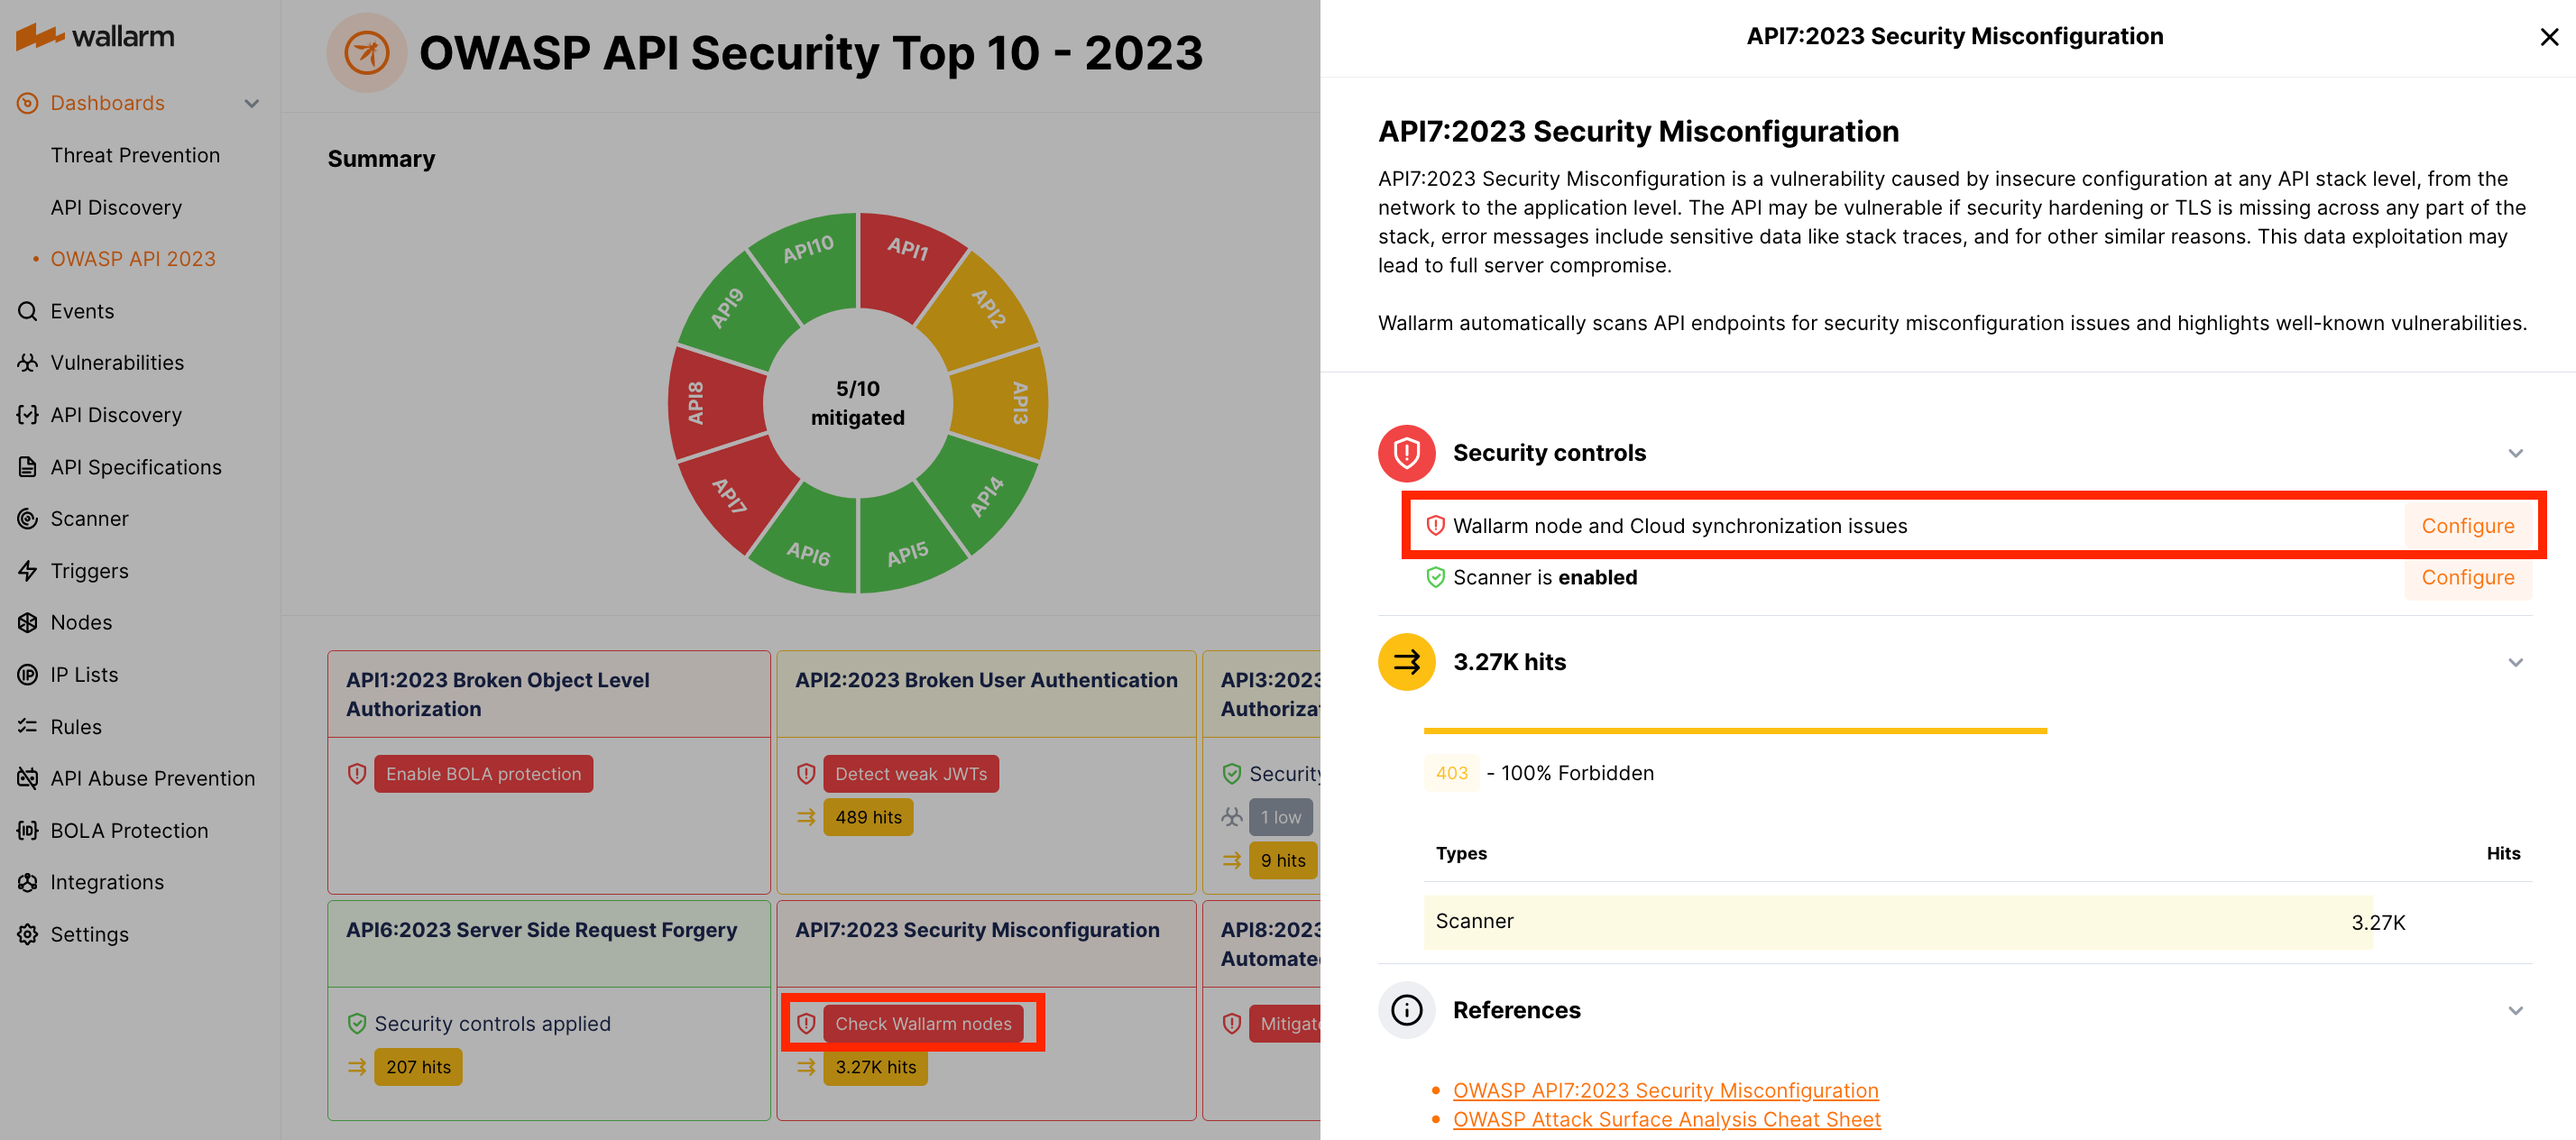
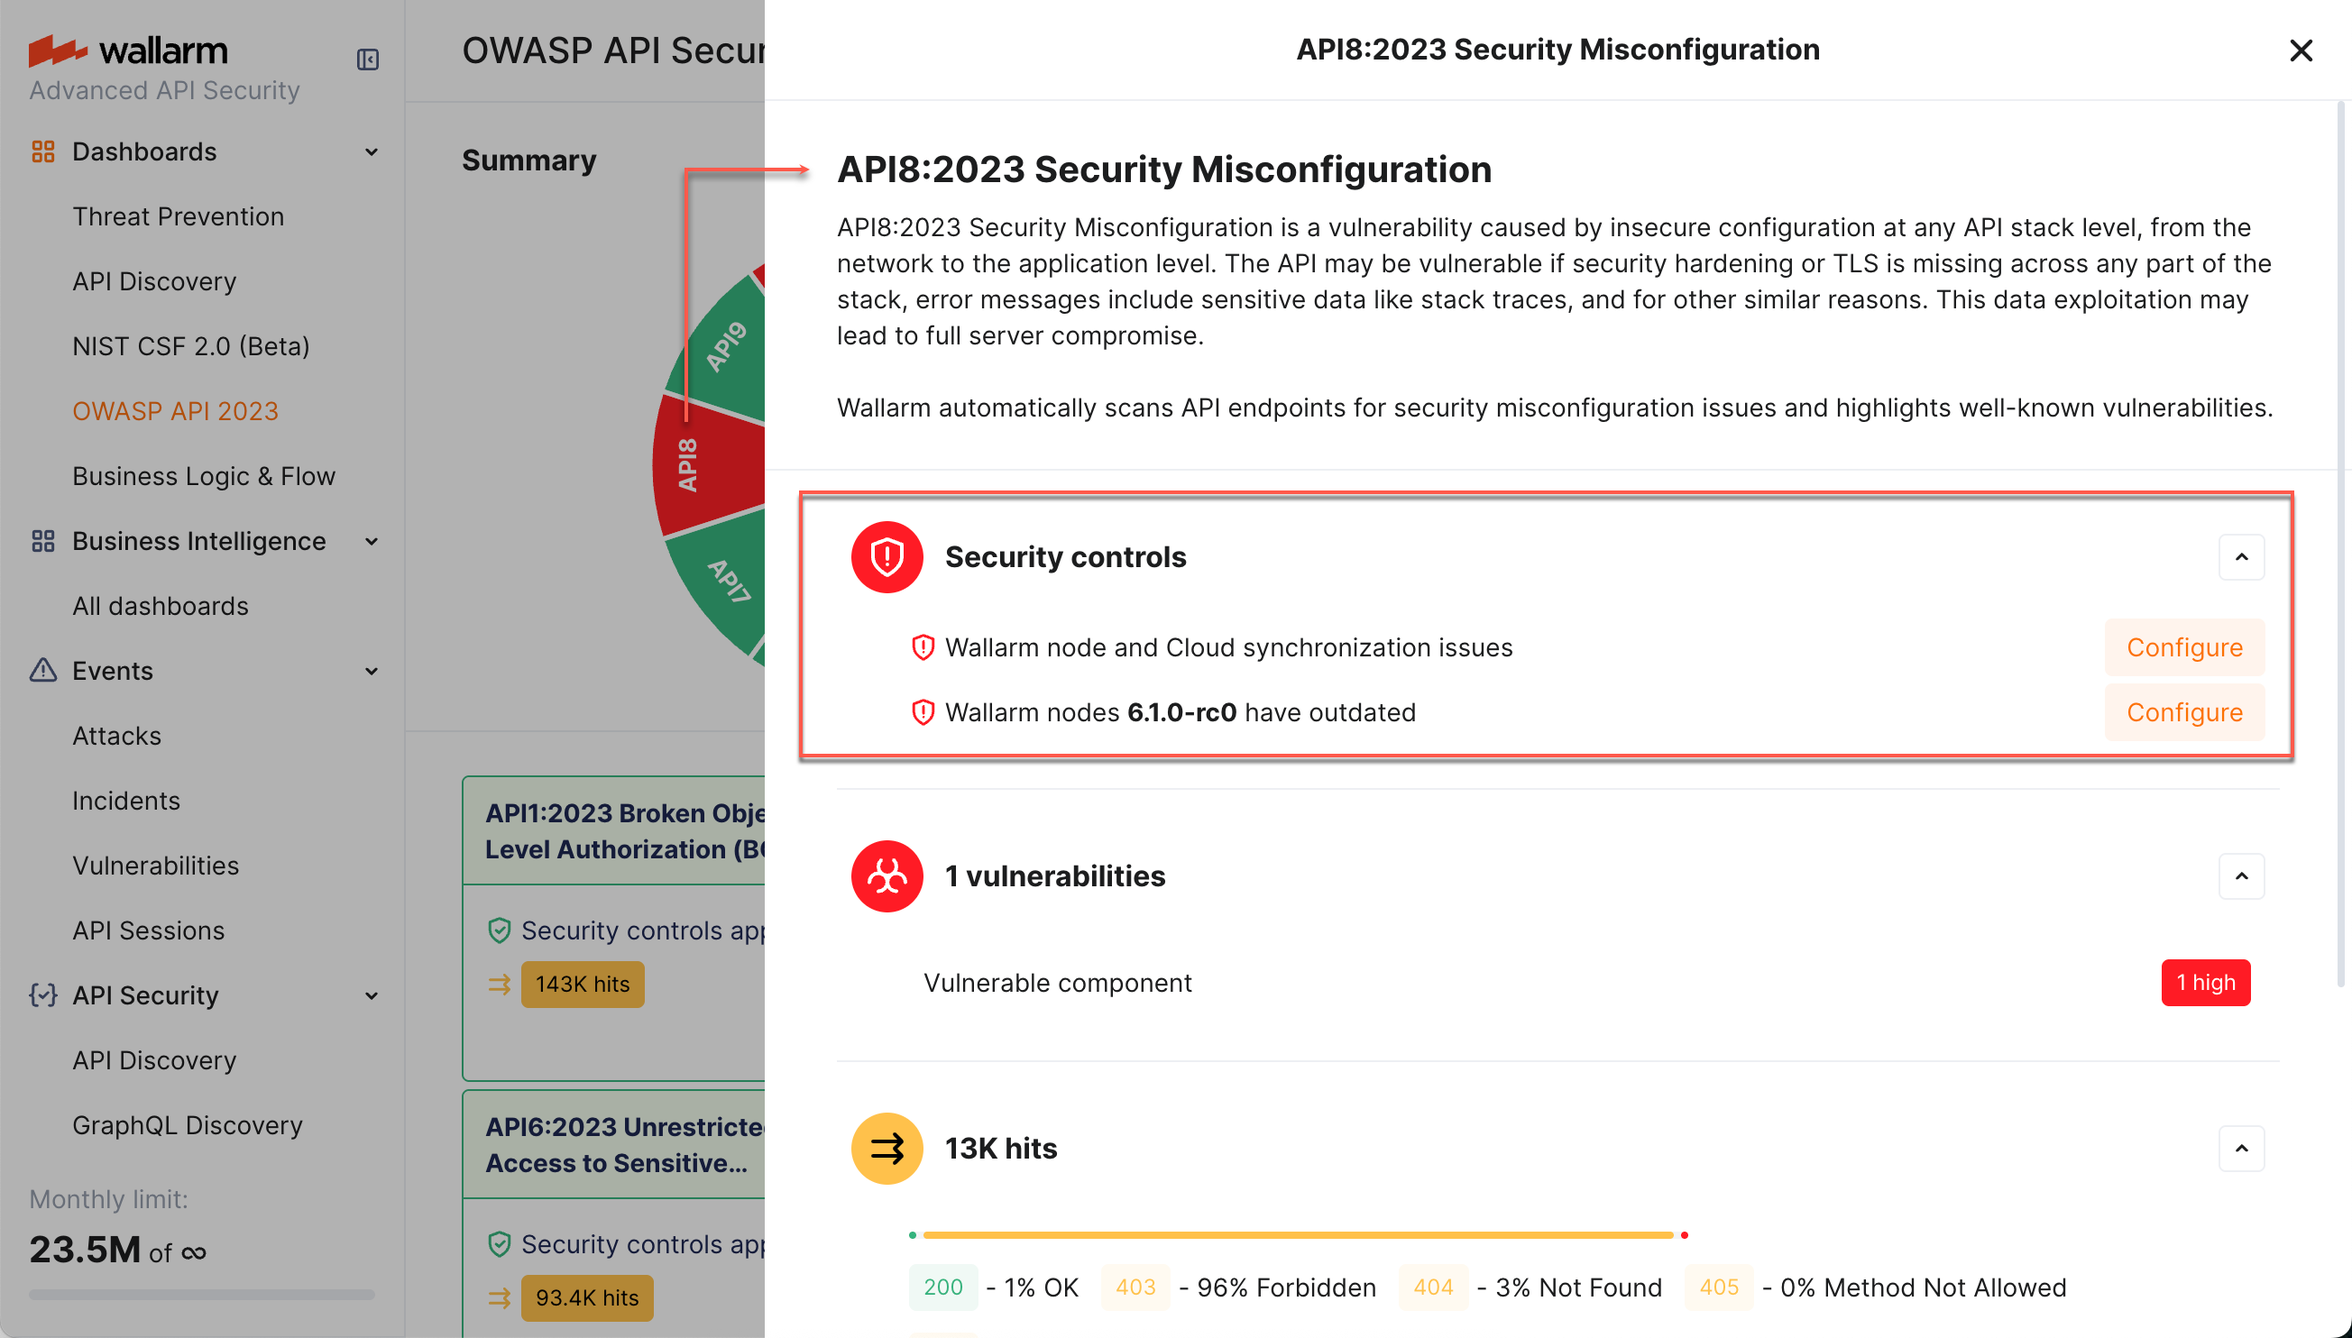
DOCS-3182 Node not registered in Cloud

diff --git a/docs/latest/faq/node-issues-on-owasp-dashboards.md b/docs/latest/faq/node-issues-on-owasp-dashboards.md
@@ -1,17 +1,38 @@
-# Addressing Wallarm node issues alerted by the OWASP dashboard
+# Addressing Wallarm Node Issues Alerted by OWASP Dashboard
 
 When Wallarm nodes are not updated or face synchronization issues with the Cloud, error messages appear on the [OWASP dashboard](../user-guides/dashboards/owasp-api-top-ten.md) indicating problems that can impact infrastructure security. This article describes how to address these issues.
 
-Outdated nodes may lack important security updates, allowing malicious traffic to bypass defenses. Synchronization issues can disrupt the nodes' functionality, preventing them from receiving vital security policies from the Cloud. These issues are primarily related to the **OWASP API7 (Security Misconfiguration)** threat, where a missing security solution in any part of the application stack can make the system vulnerable. To prevent this, the dashboard alerts you to node operation issues, e.g.:
+## Wallarm node is outdated
+
+Outdated nodes may lack important security updates, allowing malicious traffic to bypass defenses. Synchronization issues can disrupt the nodes' functionality, preventing them from receiving vital security policies from the Cloud. These issues are primarily related to the **OWASP API8 (Security Misconfiguration)** threat, where a missing security solution in any part of the application stack can make the system vulnerable. To prevent this, the dashboard alerts you to node operation issues, e.g.:
 
 ![OWASP dash with node issues](../images/user-guides/dashboard/owasp-dashboard-node-issues.png)
 
-To maintain a secure environment, it is crucial to regularly update Wallarm nodes and address synchronization problems. Here are instructions on how to handle the error messages:
+To maintain a secure environment, it is crucial to regularly update Wallarm nodes and address synchronization problems. If your Wallarm node version is [at or approaching its end-of-life](../updating-migrating/versioning-policy.md#version-list), it is recommended to upgrade your node to the latest version.
 
-1. If your Wallarm node version is [at or approaching its end-of-life](../updating-migrating/versioning-policy.md#version-list), it is recommended to upgrade your node to the latest version.
-1. If you encounter issues with Wallarm Cloud synchronization, make sure that the [corresponding settings](../admin-en/configure-cloud-node-synchronization-en.md) are correct.
+## Wallarm node and Cloud have synchronization issues
+
+If you encounter issues with Wallarm Cloud synchronization, make sure that the [corresponding settings](../admin-en/configure-cloud-node-synchronization-en.md) are correct.
 
 If you need assistance in resolving synchronization or other issues or any other requests, you can seek help from the [Wallarm support team](mailto:support@wallarm.com). Provide them with the following [logs](../admin-en/configure-logging.md) for analysis:
 
 * Logs from `/opt/wallarm/var/log/wallarm/wcli-out.log` to check for any problems with the `syncnode` script
 * Logs from the `/var/log/syslog` or `/var/log/messages` directory (depending on the deployment option) to provide additional details about the synchronization issue
+
+## Node uuid and/or secret cannot be detected
+
+You can see the following message in **just created or updated** node logs "Can't detect node uuid and/or secret, please add node to cloud first."
+
+On node creation and update, it is registered in a Cloud. The mentioned message may mean that this registration was not successful which will prevent node and Cloud from syncing (only basic monitoring, no rules or lists will come from Cloud, no monitoring results will arrive to Cloud).
+
+To generally resolve "not registered node" issues, contact the [Wallarm support team](https://support.wallarm.com/).
+
+**When you do not need to worry**
+
+Sometimes, the "Can't detect node uuid and/or secret, please add node to cloud first" message can appear BEFORE the node registration process is finished and you see in the log:
+
+```
+YYYY-MM-DD HH:MM:SS* INFO syncnodeXXXXX: Triggers result: 1 success, 0 skipped, 0 errors
+```
+
+Thus, if registration errors go BEFORE this message, you can ignore them - they will disappear after registration.
